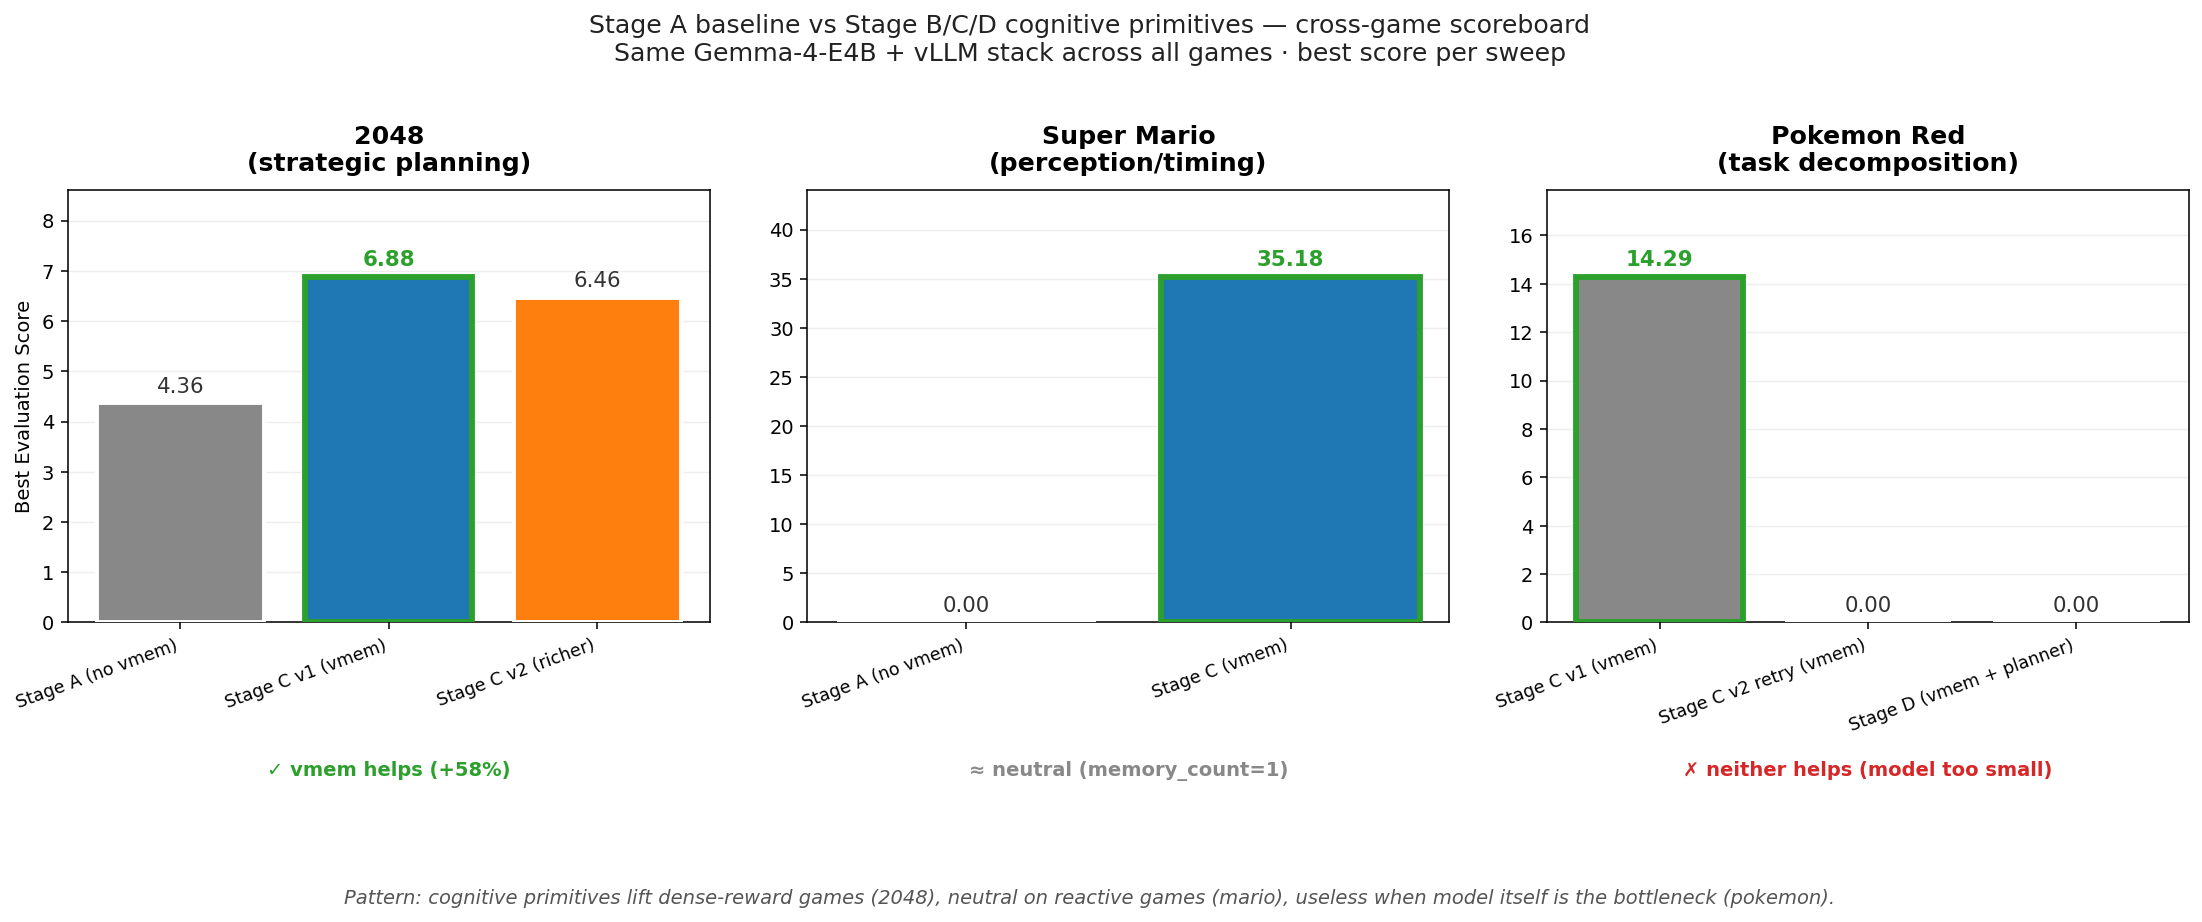
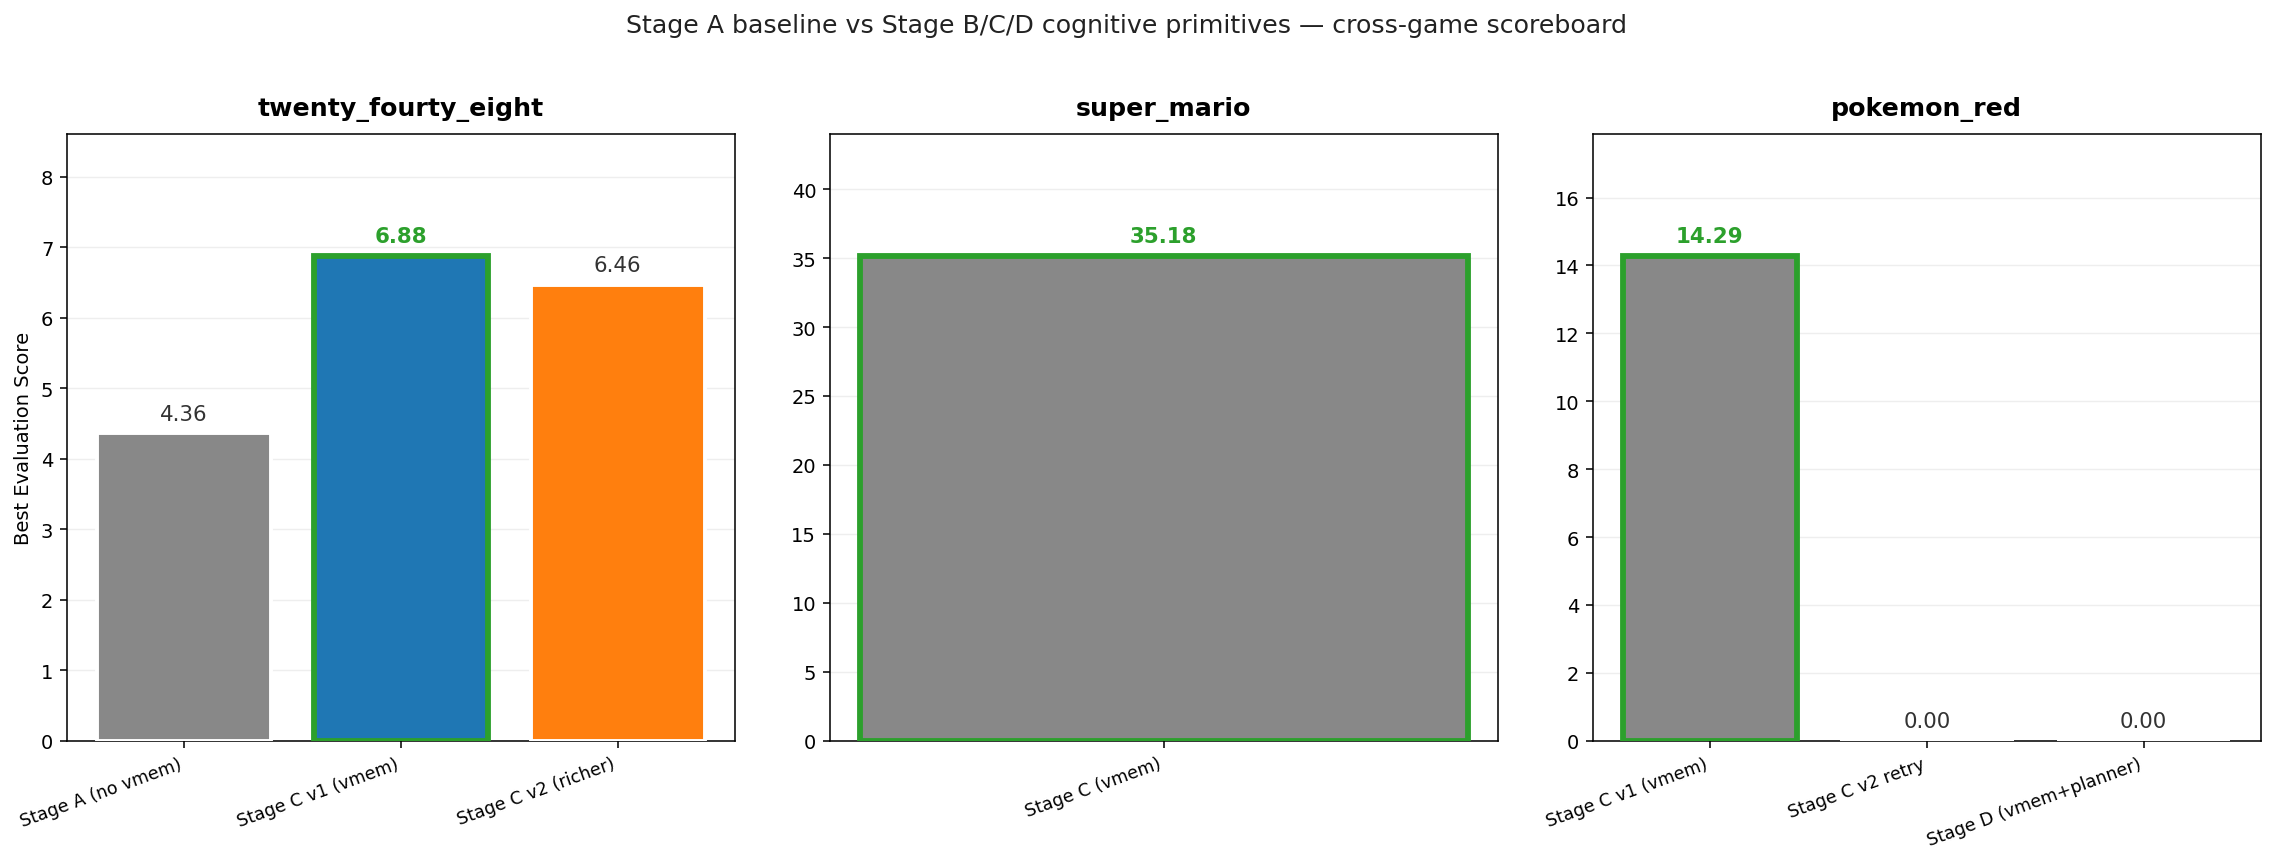
feat(experiments): plot_comparisons module — overlay + scoreboard CLIs
Local copy of the autoresearch.compare module — also being upstreamed
to the autoresearch package (charleneleong-ai/autoresearch#6) and
templated into ~/claude-plugins/.../autoresearch-loop/templates/.

Two functions, both with typer CLI commands:

* plot_multi_tag_overlay — overlay multiple sweeps on the same iter
  axis with per-iter percentage delta annotations against the baseline.
* plot_cross_game_scoreboard — per-game subplots, one bar per sweep,
  best evaluation score, with optional verdict footers.

Regenerated stage_a_vs_c_2048.png and cross_game_scoreboard.png via
the new CLI to verify identical output to the bespoke /tmp/build_*.py
scripts they replace.

diff --git a/experiments/plot_comparisons.py b/experiments/plot_comparisons.py
@@ -1,0 +1,346 @@
+"""Multi-sweep comparison plots for autoresearch.
+
+Built on top of ``experiment_progress.load_results``. Two flavours:
+
+1. ``plot_multi_tag_overlay`` — overlay multiple sweeps on the same axes,
+   per-iter delta annotations between the first sweep (baseline) and the
+   rest. Best for "did adding feature X lift scores?" questions.
+
+2. ``plot_cross_game_scoreboard`` — bar chart per game, one bar per sweep,
+   shows best evaluation score. Best for "where does feature X help?"
+   summary questions.
+
+Both render to matplotlib PNG (the per-tag ``progress.html`` plotly chart
+in ``experiment_progress.plot_progress`` is fine for single sweeps but
+gets sparse and hard-to-read with only 2-4 iters; this module is for the
+cross-sweep comparison story).
+
+Examples:
+
+    # CLI — overlay 3 sweeps on 2048
+    python -m experiments.plot_comparisons overlay \\
+        --tag harness_check --tag cognitive_check --tag cognitive_check_v2 \\
+        --label 'Stage A baseline' --label 'Stage C v1' --label 'Stage C v2' \\
+        --config-name gemma --game twenty_fourty_eight \\
+        --out docs/experiments/gemma/plots/stage_a_vs_c_2048.png
+
+    # CLI — cross-game scoreboard
+    python -m experiments.plot_comparisons scoreboard \\
+        --game twenty_fourty_eight --tag harness_check --tag cognitive_check \\
+        --game super_mario --tag mario_check \\
+        --game pokemon_red --tag pokemon_check --tag pokemon_check_v3 \\
+        --config-name gemma \\
+        --out docs/experiments/gemma/plots/cross_game_scoreboard.png
+
+    # Python — overlay
+    from experiments.plot_comparisons import plot_multi_tag_overlay
+    plot_multi_tag_overlay(
+        sweeps=[
+            ("harness_check", "Stage A baseline (no vmem)"),
+            ("cognitive_check", "Stage C v1 (vmem on, uniform)"),
+            ("cognitive_check_v2", "Stage C v2 (richer template)"),
+        ],
+        config_name="gemma",
+        game="twenty_fourty_eight",
+        out_path="docs/.../stage_a_vs_c_2048.png",
+    )
+"""
+from __future__ import annotations
+
+from pathlib import Path
+from typing import Sequence
+
+import matplotlib.pyplot as plt
+import typer
+
+from experiments.experiment_progress import load_results
+
+app = typer.Typer(help="Cross-sweep comparison plots for autoresearch.")
+
+
+# ── helpers ────────────────────────────────────────────────────────────
+
+
+def _filter_game(rows: list[dict], game: str | None) -> list[dict]:
+    if not game:
+        return rows
+    return [r for r in rows if r.get("game") == game]
+
+
+def _best_score(rows: list[dict]) -> float:
+    if not rows:
+        return 0.0
+    return max(r.get("evaluation_score", r.get("score", 0)) for r in rows)
+
+
+# ── multi-tag overlay ──────────────────────────────────────────────────
+
+
+def plot_multi_tag_overlay(
+    sweeps: Sequence[tuple[str, str]],
+    *,
+    config_name: str | None = None,
+    game: str | None = None,
+    out_path: str | Path,
+    title: str | None = None,
+    annotate_deltas: bool = True,
+    figsize: tuple[float, float] = (13.0, 6.5),
+    dpi: int = 140,
+) -> Path:
+    """Overlay multiple sweep results on the same iteration axis.
+
+    The first sweep is treated as the baseline; per-iter percentage deltas
+    against it are annotated when ``annotate_deltas=True``.
+
+    ``sweeps`` is a list of ``(tag, display_label)`` tuples. Tags are
+    looked up via ``experiment_progress.load_results``.
+    """
+    out_path = Path(out_path)
+    out_path.parent.mkdir(parents=True, exist_ok=True)
+
+    palette = ["#777", "#1f77b4", "#ff7f0e", "#9467bd", "#2ca02c", "#d62728"]
+    markers = ["o", "s", "^", "D", "v", "P"]
+
+    fig, ax = plt.subplots(figsize=figsize, dpi=dpi)
+    fig.patch.set_facecolor("white")
+    ax.set_facecolor("white")
+
+    by_label: dict[str, dict[int, float]] = {}
+
+    for i, (tag, label) in enumerate(sweeps):
+        rows = _filter_game(load_results(tag=tag, config_name=config_name), game)
+        if not rows:
+            continue
+        rows = sorted(rows, key=lambda r: r.get("experiment", 0))
+        xs = [r.get("experiment", j) for j, r in enumerate(rows)]
+        ys = [r.get("evaluation_score", r.get("score", 0)) for r in rows]
+        statuses = [r.get("status", "?") for r in rows]
+        sizes = [220 if s in ("KEEP", "BASELINE") else 100 for s in statuses]
+        color = palette[i % len(palette)]
+        marker = markers[i % len(markers)]
+
+        ax.plot(xs, ys, "-", color=color, alpha=0.4, linewidth=2)
+        ax.scatter(xs, ys, c=color, s=sizes, marker=marker, edgecolors="white",
+                   linewidths=1.5, zorder=3, label=label)
+        for x, y, s in zip(xs, ys, statuses):
+            ax.annotate(
+                f"{y:.2f}\n{s.lower()}",
+                xy=(x, y), xytext=(0, 12), textcoords="offset points",
+                ha="center", va="bottom", fontsize=9,
+                color=color,
+                fontweight="bold" if s in ("KEEP", "BASELINE") else "normal",
+            )
+        by_label[label] = dict(zip(xs, ys))
+
+    # Delta annotations between baseline (first sweep) and second sweep
+    if annotate_deltas and len(sweeps) >= 2:
+        baseline_label = sweeps[0][1]
+        compare_label = sweeps[1][1]
+        if baseline_label in by_label and compare_label in by_label:
+            for exp in sorted(set(by_label[baseline_label]) & set(by_label[compare_label])):
+                base = by_label[baseline_label][exp]
+                comp = by_label[compare_label][exp]
+                if base <= 0:
+                    continue
+                delta = (comp - base) / base * 100
+                ax.annotate(
+                    f"{'+' if delta >= 0 else ''}{delta:.0f}%",
+                    xy=(exp, (base + comp) / 2),
+                    xytext=(40, 0), textcoords="offset points",
+                    ha="left", va="center", fontsize=14, fontweight="bold",
+                    color="#2ca02c" if delta > 0 else "#d62728",
+                    arrowprops=dict(arrowstyle="-[", color="#2ca02c" if delta > 0 else "#d62728", lw=1.5),
+                )
+
+    # Axes / title
+    all_x: list[int] = []
+    all_y: list[float] = []
+    for d in by_label.values():
+        all_x.extend(d.keys())
+        all_y.extend(d.values())
+    if all_x:
+        ax.set_xlim(min(all_x) - 0.5, max(all_x) + 0.7)
+        ax.set_xticks(range(min(all_x), max(all_x) + 1))
+    if all_y:
+        ax.set_ylim(0, max(all_y) * 1.2)
+
+    ax.set_xlabel("Iteration #", fontsize=11)
+    ax.set_ylabel("Evaluation Score (higher is better)", fontsize=11)
+    if title is None:
+        scope = f"{game}" if game else "all games"
+        title = f"Sweep comparison — {scope}"
+    ax.set_title(title, fontsize=13, color="#222", pad=15)
+    ax.grid(True, color="#eee", linewidth=0.7, axis="y")
+    ax.set_axisbelow(True)
+    ax.legend(loc="upper right", fontsize=10, framealpha=0.95)
+
+    plt.tight_layout()
+    plt.savefig(out_path, dpi=dpi, facecolor="white", bbox_inches="tight")
+    plt.close(fig)
+    return out_path
+
+
+# ── cross-game scoreboard ──────────────────────────────────────────────
+
+
+def plot_cross_game_scoreboard(
+    games_to_sweeps: dict[str, list[tuple[str, str]]],
+    *,
+    config_name: str | None = None,
+    out_path: str | Path,
+    title: str | None = None,
+    game_titles: dict[str, str] | None = None,
+    game_verdicts: dict[str, str] | None = None,
+    figsize_per_panel: tuple[float, float] = (5.5, 6.0),
+    dpi: int = 140,
+) -> Path:
+    """Per-game scoreboard — bar chart of best score per sweep.
+
+    ``games_to_sweeps`` maps game name → list of ``(tag, display_label)``.
+    Each game becomes one subplot panel; bars are best ``evaluation_score``
+    per sweep. The best bar per panel gets a green border.
+
+    Optional ``game_titles`` / ``game_verdicts`` add a richer title /
+    footer per panel ("✓ vmem helps (+58%)" etc).
+    """
+    out_path = Path(out_path)
+    out_path.parent.mkdir(parents=True, exist_ok=True)
+
+    n_games = len(games_to_sweeps)
+    fig, axes = plt.subplots(
+        1, n_games,
+        figsize=(figsize_per_panel[0] * n_games, figsize_per_panel[1]),
+        dpi=dpi,
+    )
+    if n_games == 1:
+        axes = [axes]
+    fig.patch.set_facecolor("white")
+
+    palette = ["#888", "#1f77b4", "#ff7f0e", "#9467bd", "#2ca02c", "#d62728"]
+
+    for ax, (game, sweeps) in zip(axes, games_to_sweeps.items()):
+        labels = [s[1] for s in sweeps]
+        values = [_best_score(_filter_game(load_results(tag=s[0], config_name=config_name), game))
+                  for s in sweeps]
+        n = len(labels)
+        colors = [palette[i % len(palette)] for i in range(n)]
+        bars = ax.bar(range(n), values, color=colors, edgecolor="white",
+                      linewidth=2, zorder=3)
+
+        # Highlight best
+        if any(v > 0 for v in values):
+            best_idx = max(range(n), key=lambda i: values[i])
+            bars[best_idx].set_edgecolor("#2ca02c")
+            bars[best_idx].set_linewidth(3)
+        else:
+            best_idx = -1
+
+        # Score labels
+        max_v = max(values) if any(v > 0 for v in values) else 1
+        for i, v in enumerate(values):
+            ax.text(i, v + max_v * 0.02, f"{v:.2f}", ha="center", va="bottom",
+                    fontsize=11,
+                    fontweight="bold" if i == best_idx else "normal",
+                    color="#2ca02c" if i == best_idx else "#333")
+
+        ax.set_xticks(range(n))
+        ax.set_xticklabels(labels, rotation=20, ha="right", fontsize=9)
+        panel_title = (game_titles or {}).get(game, game)
+        ax.set_title(panel_title, fontsize=13, fontweight="bold", pad=10)
+        if ax is axes[0]:
+            ax.set_ylabel("Best Evaluation Score")
+        ax.grid(True, color="#eee", linewidth=0.7, axis="y", zorder=0)
+        ax.set_axisbelow(True)
+        ax.set_ylim(0, max_v * 1.25)
+
+        verdict = (game_verdicts or {}).get(game)
+        if verdict:
+            ax.text(0.5, -0.32, verdict, transform=ax.transAxes,
+                    ha="center", va="top", fontsize=10, fontweight="bold")
+
+    if title:
+        fig.suptitle(title, fontsize=13, color="#222", y=1.02)
+
+    plt.tight_layout()
+    plt.savefig(out_path, dpi=dpi, facecolor="white", bbox_inches="tight")
+    plt.close(fig)
+    return out_path
+
+
+# ── CLI ────────────────────────────────────────────────────────────────
+
+
+@app.command()
+def overlay(
+    tag: list[str] = typer.Option(..., "--tag", "-t", help="Sweep tag (repeat for multi-sweep)"),
+    label: list[str] = typer.Option(..., "--label", "-l", help="Display label per tag (same order)"),
+    out: str = typer.Option(..., help="Output PNG path"),
+    config_name: str | None = typer.Option(None, help="Per-config sub-dir under experiments/<tag>/"),
+    game: str | None = typer.Option(None, help="Filter to a specific game"),
+    title: str | None = typer.Option(None, help="Plot title (default auto)"),
+    no_deltas: bool = typer.Option(False, help="Disable per-iter delta annotations"),
+):
+    """Overlay multiple sweeps on the same iter axis with delta annotations."""
+    if len(tag) != len(label):
+        raise typer.BadParameter(f"--tag count ({len(tag)}) must match --label count ({len(label)})")
+    p = plot_multi_tag_overlay(
+        sweeps=list(zip(tag, label)),
+        config_name=config_name,
+        game=game,
+        out_path=out,
+        title=title,
+        annotate_deltas=not no_deltas,
+    )
+    typer.echo(f"wrote {p}")
+
+
+@app.command()
+def scoreboard(
+    out: str = typer.Option(..., help="Output PNG path"),
+    config_name: str | None = typer.Option(None, help="Per-config sub-dir"),
+    game: list[str] = typer.Option(..., "--game", "-g",
+        help="Game name (repeat for multiple games — interleave with --tag/--label per game)"),
+    tag: list[str] = typer.Option(..., "--tag", "-t",
+        help="Sweep tag — these are MATCHED to games positionally via --sep"),
+    label: list[str] = typer.Option(..., "--label", "-l",
+        help="Display label per tag, same order as --tag"),
+    sep: list[int] = typer.Option(...,
+        help="Number of (tag, label) pairs per game — must sum to len(tag)"),
+    title: str | None = typer.Option(None, help="Top-level title"),
+):
+    """Cross-game scoreboard. Pass --game once per panel; --tag/--label
+    multiple times overall; --sep tells where each game's tags end.
+
+    Example for 3 games × varying number of sweeps each:
+
+        --game 2048 --tag a1 --tag a2 --label "A" --label "B" --sep 2
+        --game mario --tag m1 --label "C" --sep 1
+        --game pokemon --tag p1 --tag p2 --label "D" --label "E" --sep 2
+    """
+    if sum(sep) != len(tag) or len(tag) != len(label):
+        raise typer.BadParameter(
+            f"--sep ({sep}, sum={sum(sep)}) must add up to len(tag)={len(tag)} "
+            f"== len(label)={len(label)}"
+        )
+    if len(sep) != len(game):
+        raise typer.BadParameter(
+            f"--sep entries ({len(sep)}) must match --game entries ({len(game)})"
+        )
+
+    games_to_sweeps: dict[str, list[tuple[str, str]]] = {}
+    cursor = 0
+    for g, n in zip(game, sep):
+        games_to_sweeps[g] = list(zip(tag[cursor:cursor + n], label[cursor:cursor + n]))
+        cursor += n
+
+    p = plot_cross_game_scoreboard(
+        games_to_sweeps=games_to_sweeps,
+        config_name=config_name,
+        out_path=out,
+        title=title,
+    )
+    typer.echo(f"wrote {p}")
+
+
+if __name__ == "__main__":
+    app()
